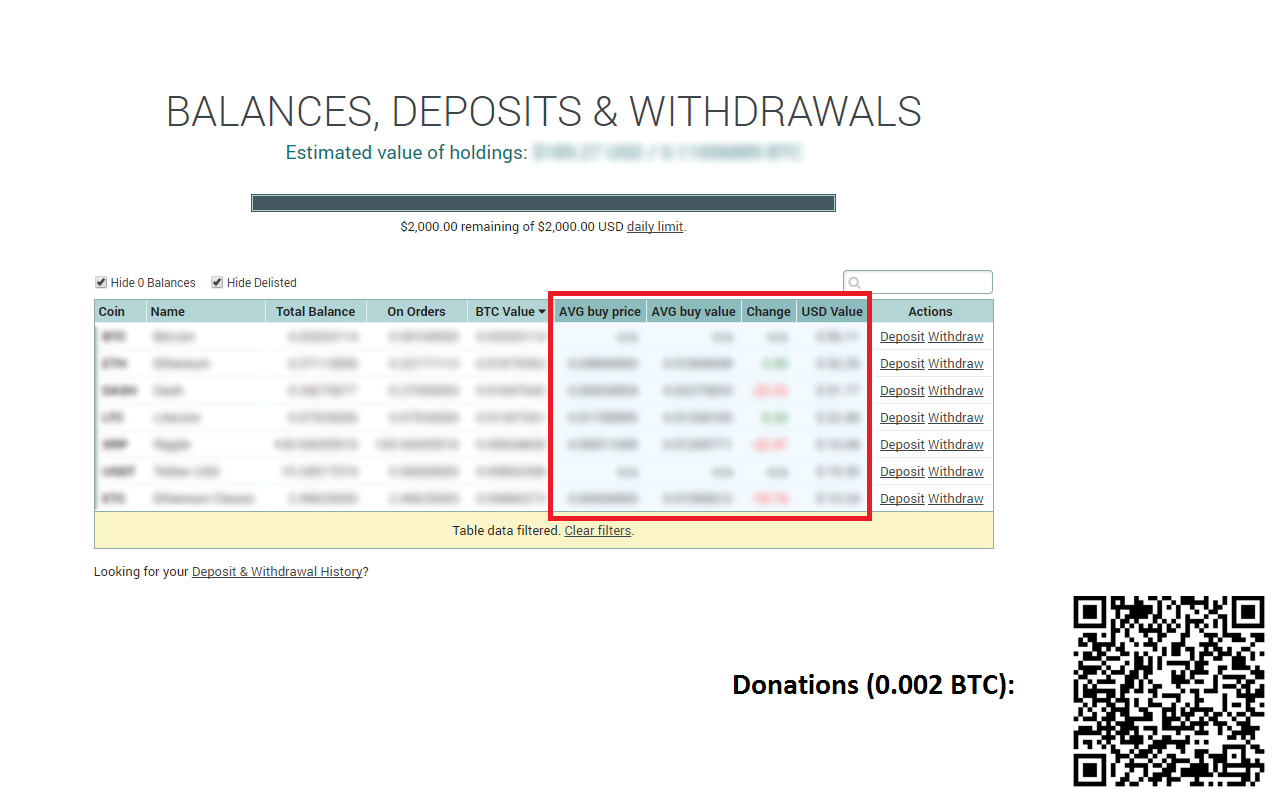
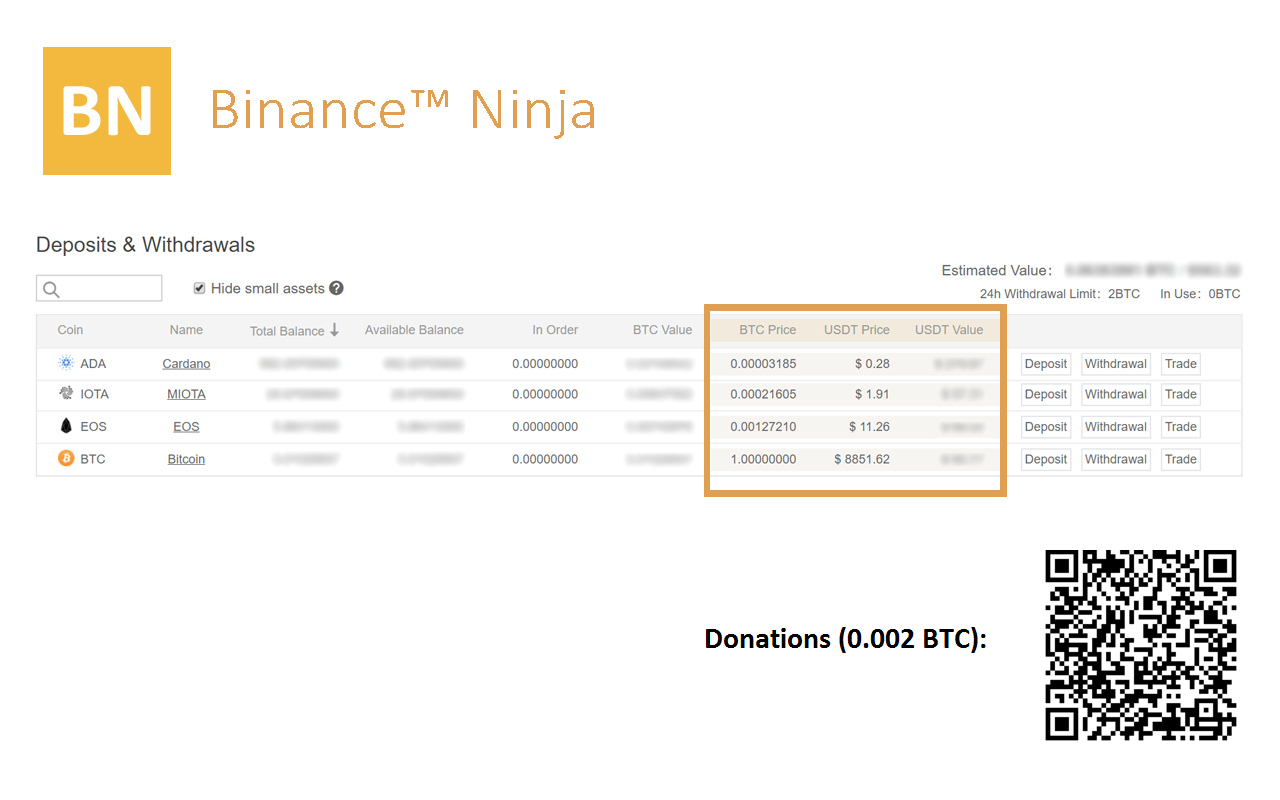
Update images.

diff --git a/README.md b/README.md
@@ -1,5 +1,7 @@
 # Binance™ Ninja
 
+![Balance columns](https://github.com/codesonzh/binance-ninja/blob/master/docs/balances.png?raw=true&x=1)
+
 Binance™ Ninja is a Chrome extension which provides simple tools and utilities
 which are otherwise unavailable on the Binance™ website during trading and
 auditing.
@@ -21,7 +23,7 @@ Consider donating 0.002 BTC or more to this address:
 
 
 Donations are the only mechanism of getting something in return for investing
-my spare time developing PoloNinja. Your contribution, however small, is a
+my spare time developing Binance Ninja. Your contribution, however small, is a
 clear message of support and acceptance.
 
 Thanks for supporting development of Binance™ Ninja!
@@ -29,39 +31,13 @@ Thanks for supporting development of Binance™ Ninja!
 ## Features
 
 * Extra balance columns for better stats and tracking
-* Real-time ticker of current prices and holdings
-* Filtering of untraded coins (e.g. to see earnings for sold out coins)
 * Easy settings via Chrome toolbox or right-click context menu
-* Inline donation info at withdrawal form (accepting various coins)
 
 The extra balance columns are as follows:
 
 * **BTC Price** - The last market price of the coin in BTC
 * **USDT Price** - The last market price of the coin in USDT
-* **AVG Buy Price** - the average weighted buy price which justifies the current
-  balance of the coin; we consider the transaction history backwards up to the
-  point where the net balance was 0 (including deposits and withdrawals) - this
-  will match your trade history analysis only if you follow the same algorithm.
-* **EST Buy Value** - the estimated buy value of the current balance (Balance *
-  AVG Buy Price)
-* **Change** - The growth comparing the current BTC Value against AVG Buy Value,
-  this indicator tells you if you're currently losing or gaining money
 * **USD Value** - Estimated value of the coin in USDT (BTC converted to USD)
-* **Earnings** - Total earnings at last sale in BTC. Given the coin trade
-  history (against BTC only), we compute the earnings and exclude the last
-  consecutive purchases you made. The fees are also deducted so it's net profit
-  or loss without the last purchases.
-* **Earnings USD** - Same as above, converted according to current USD/BTC
-  ratio.
-
-**Notice!**
-
-AVG Buy Price, AVG Buy Value and Change columns only consider BTC transactions
-against an altcoin other than USDT. This means that for example ETH and XMR
-exchanges for other altcoins are not taken into account (the Change column may
-be incorrect as well as the AVG columns).
-
-![Balance columns](https://github.com/codesonzh/binance-ninja/blob/master/docs/balances.png?raw=true)
 
 
 ## Privacy
